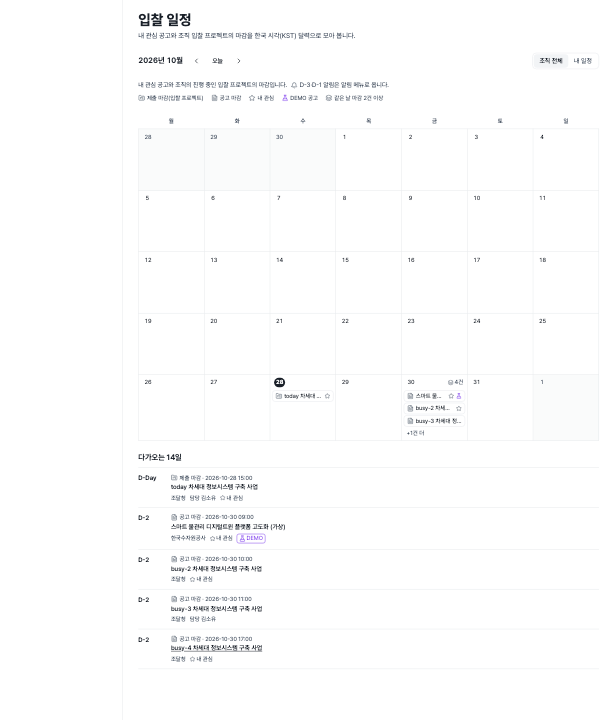
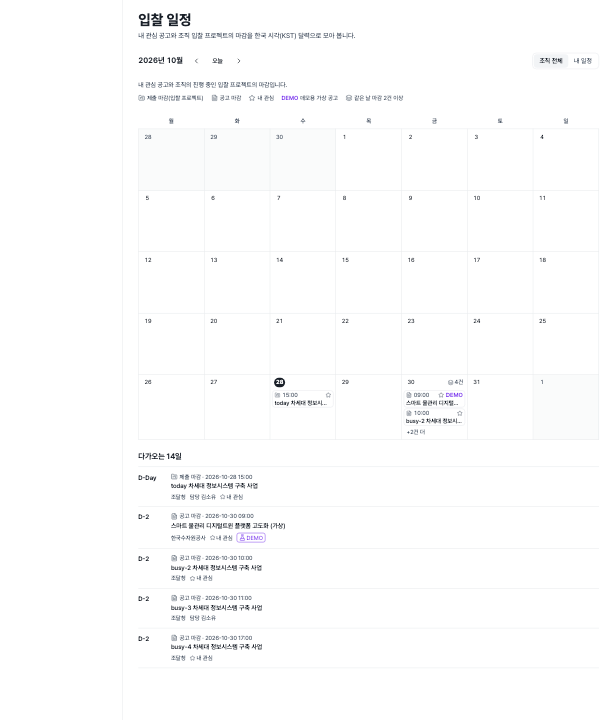
fix(web): 입찰 일정 칩에 DEMO 글자와 두 줄 제목 표시
- DEMO 공고를 아이콘 대신 보라 글자로 표시한다
- 칩을 두 줄로 나눠 제목이 칩 폭을 다 쓰게 한다(칸당 2개)
- 운영에서 사실이 아닌 마감 알림 안내 문구를 뺀다

diff --git a/web/app/(app)/(work)/calendar/calendar-view.tsx b/web/app/(app)/(work)/calendar/calendar-view.tsx
@@ -1,11 +1,9 @@
 import { cn } from "cn";
 import {
-  BellIcon,
   CalendarDaysIcon,
   ChevronLeftIcon,
   ChevronRightIcon,
   FileTextIcon,
-  FlaskConicalIcon,
   FolderKanbanIcon,
   LayersIcon,
   StarIcon,
@@ -33,7 +31,6 @@ import { EmptyState } from "@/app/(app)/(work)/empty-state";
 import {
   CALENDAR_CAPTION,
   CALENDAR_DESCRIPTION,
-  CALENDAR_REMINDER_NOTE,
   CALENDAR_TITLE,
   KIND_LABELS,
   MONTH_EMPTY,
@@ -49,8 +46,8 @@ import {
 // 서버 모듈을 값으로 부르지 않는다(브라우저 시험이 그대로 그린다). 날짜 계산은 page 가 끝내서 넘긴다.
 // 일정 종류는 색이 아니라 아이콘과 글자로 구분한다. 칩의 접근 이름(aria-label)에 종류·시각·관심·DEMO 를 모두 글자로 싣는다.
 
-// 칸에 칩을 세 개까지 그리고 나머지는 "+n건" 메뉴로 연다(칸 높이를 주마다 같게).
-const MAX_CHIPS = 3;
+// 칩은 두 줄(종류·시각·표시 줄 + 제목 줄)이라 칸에 두 개까지 그리고 나머지는 "+n건" 메뉴로 연다(칸 높이를 주마다 같게).
+const MAX_CHIPS = 2;
 
 const KIND_ICON: Record<CalendarEventKind, typeof FileTextIcon> = {
   SUBMISSION_DUE: FolderKanbanIcon,
@@ -83,11 +80,13 @@ const chipTitle = (event: CalendarEvent) =>
 const chipName = (event: CalendarEvent) =>
   [`${kindText(event)} ${timeOf(event.at)}`, event.bid.title, ...markersOf(event)].join(" ");
 
-function KindIcon({ kind }: { kind: CalendarEventKind }) {
+function KindIcon({ kind, className }: { kind: CalendarEventKind; className?: string }) {
   const Icon = KIND_ICON[kind];
-  return <Icon aria-hidden className="size-3.5 shrink-0 text-muted-foreground" />;
+  return <Icon aria-hidden className={cn("size-3.5 shrink-0 text-muted-foreground", className)} />;
 }
 
+// 칸이 좁아(1440px 에서 안쪽 약 100px) 아이콘·표시를 제목 옆에 두면 제목이 서너 글자만 남는다.
+// 윗줄에 종류 아이콘·시각·관심·DEMO 글자를 모으고, 아랫줄은 제목만 칩 폭을 다 쓴다.
 function EventChip({ event }: { event: CalendarEvent }) {
   return (
     <li>
@@ -95,23 +94,24 @@ function EventChip({ event }: { event: CalendarEvent }) {
         href={event.href}
         title={chipTitle(event)}
         aria-label={chipName(event)}
-        className="flex h-6 min-w-0 items-center gap-1 rounded-md border border-border bg-background px-1.5 type-caption hover:bg-muted focus-visible:outline-2 focus-visible:outline-ring"
+        className="block min-w-0 rounded-md border border-border bg-background px-1 py-px type-caption hover:bg-muted focus-visible:outline-2 focus-visible:outline-ring"
       >
-        <KindIcon kind={event.kind} />
+        <span className="flex items-center gap-1 text-muted-foreground">
+          <KindIcon kind={event.kind} className="size-3" />
+          <span className="tabular-nums">{timeOf(event.at)}</span>
+          <span className="ml-auto flex shrink-0 items-center gap-1">
+            {event.watched ? <StarIcon aria-hidden className="size-3" /> : null}
+            {event.bid.isDemo ? <span className="font-semibold text-demo">DEMO</span> : null}
+          </span>
+        </span>
         <span
           className={cn(
-            "min-w-0 flex-1 truncate",
+            "block truncate font-medium text-foreground",
             event.bid.cancelled && "text-muted-foreground line-through",
           )}
         >
           {event.bid.title}
         </span>
-        {event.watched ? (
-          <StarIcon aria-hidden className="size-3 shrink-0 text-muted-foreground" />
-        ) : null}
-        {event.bid.isDemo ? (
-          <FlaskConicalIcon aria-hidden className="size-3 shrink-0 text-demo" />
-        ) : null}
       </Link>
     </li>
   );
@@ -247,8 +247,8 @@ function Legend() {
         <StarIcon aria-hidden className="size-3.5" />내 관심
       </li>
       <li className={item}>
-        <FlaskConicalIcon aria-hidden className="size-3.5 text-demo" />
-        DEMO 공고
+        <span className="font-semibold text-demo">DEMO</span>
+        데모용 가상 공고
       </li>
       <li className={item}>
         <LayersIcon aria-hidden className="size-3.5" />
@@ -329,13 +329,7 @@ export function BidCalendar({
         </nav>
       </div>
       <div className="flex flex-col gap-2">
-        <p className="flex flex-wrap items-center gap-x-2 type-label text-muted-foreground">
-          <span>{VIEW_HINTS[view]}의 마감입니다.</span>
-          <span className="inline-flex items-center gap-1">
-            <BellIcon aria-hidden className="size-3.5" />
-            {CALENDAR_REMINDER_NOTE}
-          </span>
-        </p>
+        <p className="type-label text-muted-foreground">{VIEW_HINTS[view]}의 마감입니다.</p>
         <Legend />
       </div>
       {hasAnyEvents ? null : (

diff --git a/web/app/(app)/(work)/calendar/calendar-view.browser.test.tsx b/web/app/(app)/(work)/calendar/calendar-view.browser.test.tsx
@@ -135,19 +135,38 @@ describe("입찰 일정 화면", () => {
       await expect
         .element(calendar.getByRole("link", { name: /^제출 마감 15:00 today/ }))
         .toHaveAttribute("href", "/projects/p1");
+      const demoChip = calendar.getByRole("link", { name: /스마트 물관리.*내 관심 DEMO$/ });
+      await expect.element(demoChip).toHaveAttribute("href", "/bids/busy-1?origin=demo");
+      // DEMO 는 칩에 글자로도 보인다(색·아이콘만으로 알리지 않는다). DEMO 가 아닌 칩에는 없다.
+      await expect.element(demoChip.getByText("DEMO", { exact: true })).toBeVisible();
       await expect
-        .element(calendar.getByRole("link", { name: /스마트 물관리.*내 관심 DEMO$/ }))
-        .toHaveAttribute("href", "/bids/busy-1?origin=demo");
+        .element(
+          calendar
+            .getByRole("link", { name: /^공고 마감 10:00 busy-2/ })
+            .getByText("DEMO", { exact: true }),
+        )
+        .not.toBeInTheDocument();
+      // 제목 줄은 칩 폭을 다 쓴다(아이콘·표시 옆에 끼어 서너 글자만 남지 않게).
+      const chipWidth = demoChip.element().clientWidth;
+      const titleWidth = demoChip
+        .getByText("스마트 물관리 디지털트윈 플랫폼 고도화 (가상)")
+        .element()
+        .getBoundingClientRect().width;
+      expect(titleWidth).toBeGreaterThanOrEqual(chipWidth - 12);
 
-      // 메뉴를 열기 전에 찍는다(닫히는 메뉴가 사진에 남지 않게).
+      // 메뉴를 열기 전에 찍는다(닫히는 메뉴가 사진에 남지 않게). 앞 시험의 마우스 자리에 걸린 링크 hover 도 치운다.
       expect(document.documentElement.scrollWidth).toBeLessThanOrEqual(window.innerWidth);
+      await userEvent.hover(page.getByRole("heading", { level: 1 }));
       await page.screenshot({
         path: `../../../../test-results/vitest-screenshots/calendar-${width}.png`,
       });
 
-      // 4건인 날은 겹침 건수를 보이고 칩 셋 뒤 나머지는 메뉴로 연다.
+      // 4건인 날은 겹침 건수를 보이고 칩 둘 뒤 나머지는 메뉴로 연다.
       await expect.element(calendar.getByText("4건")).toBeVisible();
-      await userEvent.click(page.getByRole("button", { name: /\+1건 더/ }));
+      await userEvent.click(page.getByRole("button", { name: /\+2건 더/ }));
+      await expect
+        .element(page.getByRole("menuitem", { name: /busy-3/ }))
+        .toHaveAttribute("href", "/bids/busy-3?origin=live");
       await expect
         .element(page.getByRole("menuitem", { name: /busy-4/ }))
         .toHaveAttribute("href", "/bids/busy-4?origin=live");

diff --git a/web/app/(app)/(work)/calendar/calendar-copy.ts b/web/app/(app)/(work)/calendar/calendar-copy.ts
@@ -7,8 +7,6 @@ export const CALENDAR_PATH = "/calendar";
 export const CALENDAR_TITLE = "입찰 일정";
 export const CALENDAR_DESCRIPTION =
   "내 관심 공고와 조직 입찰 프로젝트의 마감을 한국 시각(KST) 달력으로 모아 봅니다.";
-// 마감 D-3·D-1 알림은 이미 있다(마이그레이션 20261022000110). 달력은 알림을 보내지 않는다.
-export const CALENDAR_REMINDER_NOTE = "D-3·D-1 알림은 알림 메뉴로 옵니다.";
 export const CALENDAR_CAPTION = "월간 입찰 일정";
 export const CALENDAR_LOADING = "입찰 일정을 불러오는 중…";
 

diff --git a/docs/evidence/calendar/20261028/README.md b/docs/evidence/calendar/20261028/README.md
@@ -5,11 +5,13 @@
 ## 무엇이 보이나
 
 - 월간 달력(KST, 월요일 시작), 이전 달·오늘·다음 달 링크(`?month=YYYY-MM`), 오늘 칸 표시(`aria-current="date"`).
-- 일정 종류는 아이콘 + 글자로 구분한다: 폴더 아이콘 = 제출 마감(입찰 프로젝트, 바꾼 값이면 "(변경)"), 문서 아이콘 = 공고 마감, 별 = 내 관심, 플라스크 = DEMO 공고. 칩의 접근 이름에 종류·시각·관심·DEMO 를 글자로 싣는다.
-- 같은 날 2건 이상이면 칸 머리에 겹침 아이콘 + "n건". 칩은 칸마다 3개까지, 나머지는 "+n건 더" 메뉴.
+- 일정 종류는 아이콘 + 글자로 구분한다: 폴더 아이콘 = 제출 마감(입찰 프로젝트, 바꾼 값이면 "(변경)"), 문서 아이콘 = 공고 마감, 별 = 내 관심, 보라 글자 "DEMO" = 데모용 가상 공고. 칩의 접근 이름에 종류·시각·관심·DEMO 를 글자로 싣는다.
+- 칩은 두 줄이다: 윗줄 종류 아이콘·시각(KST)·별·"DEMO" 글자, 아랫줄 제목(칩 폭 전부). 1440px 에서 제목이 7~8글자 보인다(전에는 아이콘 옆에서 3~4글자). 전체 제목은 마우스를 올리면(title) 보인다.
+- 같은 날 2건 이상이면 칸 머리에 겹침 아이콘 + "n건". 칩은 칸마다 2개까지(칸 높이 그대로), 나머지는 "+n건 더" 메뉴.
 - "다가오는 14일" 목록(D-Day·D-n, 오늘 이미 지난 시각은 뺌). 단이 넓으면(사이드바를 편 1440px) 오른쪽, 좁으면(1280px) 달력 아래.
 - 보기: 조직 전체(기본, 내 관심 + 조직의 진행 중 프로젝트) / 내 일정(`?view=mine`, 내 관심 + 내가 담당인 프로젝트). 남의 관심은 어느 보기에도 없다(RLS·N3 D6).
-- "D-3·D-1 알림은 알림 메뉴로 옵니다." 한 줄. 일정이 하나도 없으면 빈 상태와 "입찰 공고 보기" 링크.
+- 일정이 하나도 없으면 빈 상태와 "입찰 공고 보기" 링크.
+- 마감 알림 안내 문구는 두지 않는다. 운영 알림 Worker 가 기동 전이라 사실이 아니다(`docs/PROGRESS.md` "알림 처리" 행). 회사 Worker 를 켜면 되살린다.
 
 ## 일정 모으기 규칙 (`web/server/calendar/calendar.model.ts`)
 
@@ -22,7 +24,7 @@
 
 - 단위: `pnpm -C web exec vitest run server/calendar` — 12개 통과. KST 날짜 경계(UTC 15:00 → 다음 날), 마감 없음, 관심+프로젝트 합치기, 제출 마감 변경 두 건·같은 시각 한 건, 조직 전체·내 일정 거르기, 월 칸(5주·6주), 다가오는 14일 경계, `?month` 파싱.
 - 변형 확인: 합치기 제거·UTC 날짜·내 일정 거르기 약화·같은 시각 비교 제거·지난 시각 거르기 제거·일요일 시작 6가지 모두 실패(1~2개씩).
-- 브라우저: `pnpm -C web exec vitest run --config vitest.browser.config.ts "app/(app)/(work)/calendar"` — 2개(1440·1280) 통과. 256px 사이드바 자리를 비운 본문 폭에서 가로 넘침 0. 칩 DEMO 글자를 빼는 변형에서 2개 모두 실패.
+- 브라우저: `pnpm -C web exec vitest run --config vitest.browser.config.ts "app/(app)/(work)/calendar"` — 2개(1440·1280) 통과. 256px 사이드바 자리를 비운 본문 폭에서 가로 넘침 0. DEMO 칩에 "DEMO" 글자가 보이고 다른 칩에는 없는지, 제목 줄이 칩 폭을 다 쓰는지(칩 안쪽 폭 − 12px 이상) 잰다. 변형 확인: 칩의 "DEMO" 글자를 빼면 2개 모두 실패, 제목 줄을 반 폭으로 줄이면 2개 모두 실패(48px < 92, 59px < 114).
 
 | 파일 | 내용 |
 |---|---|
